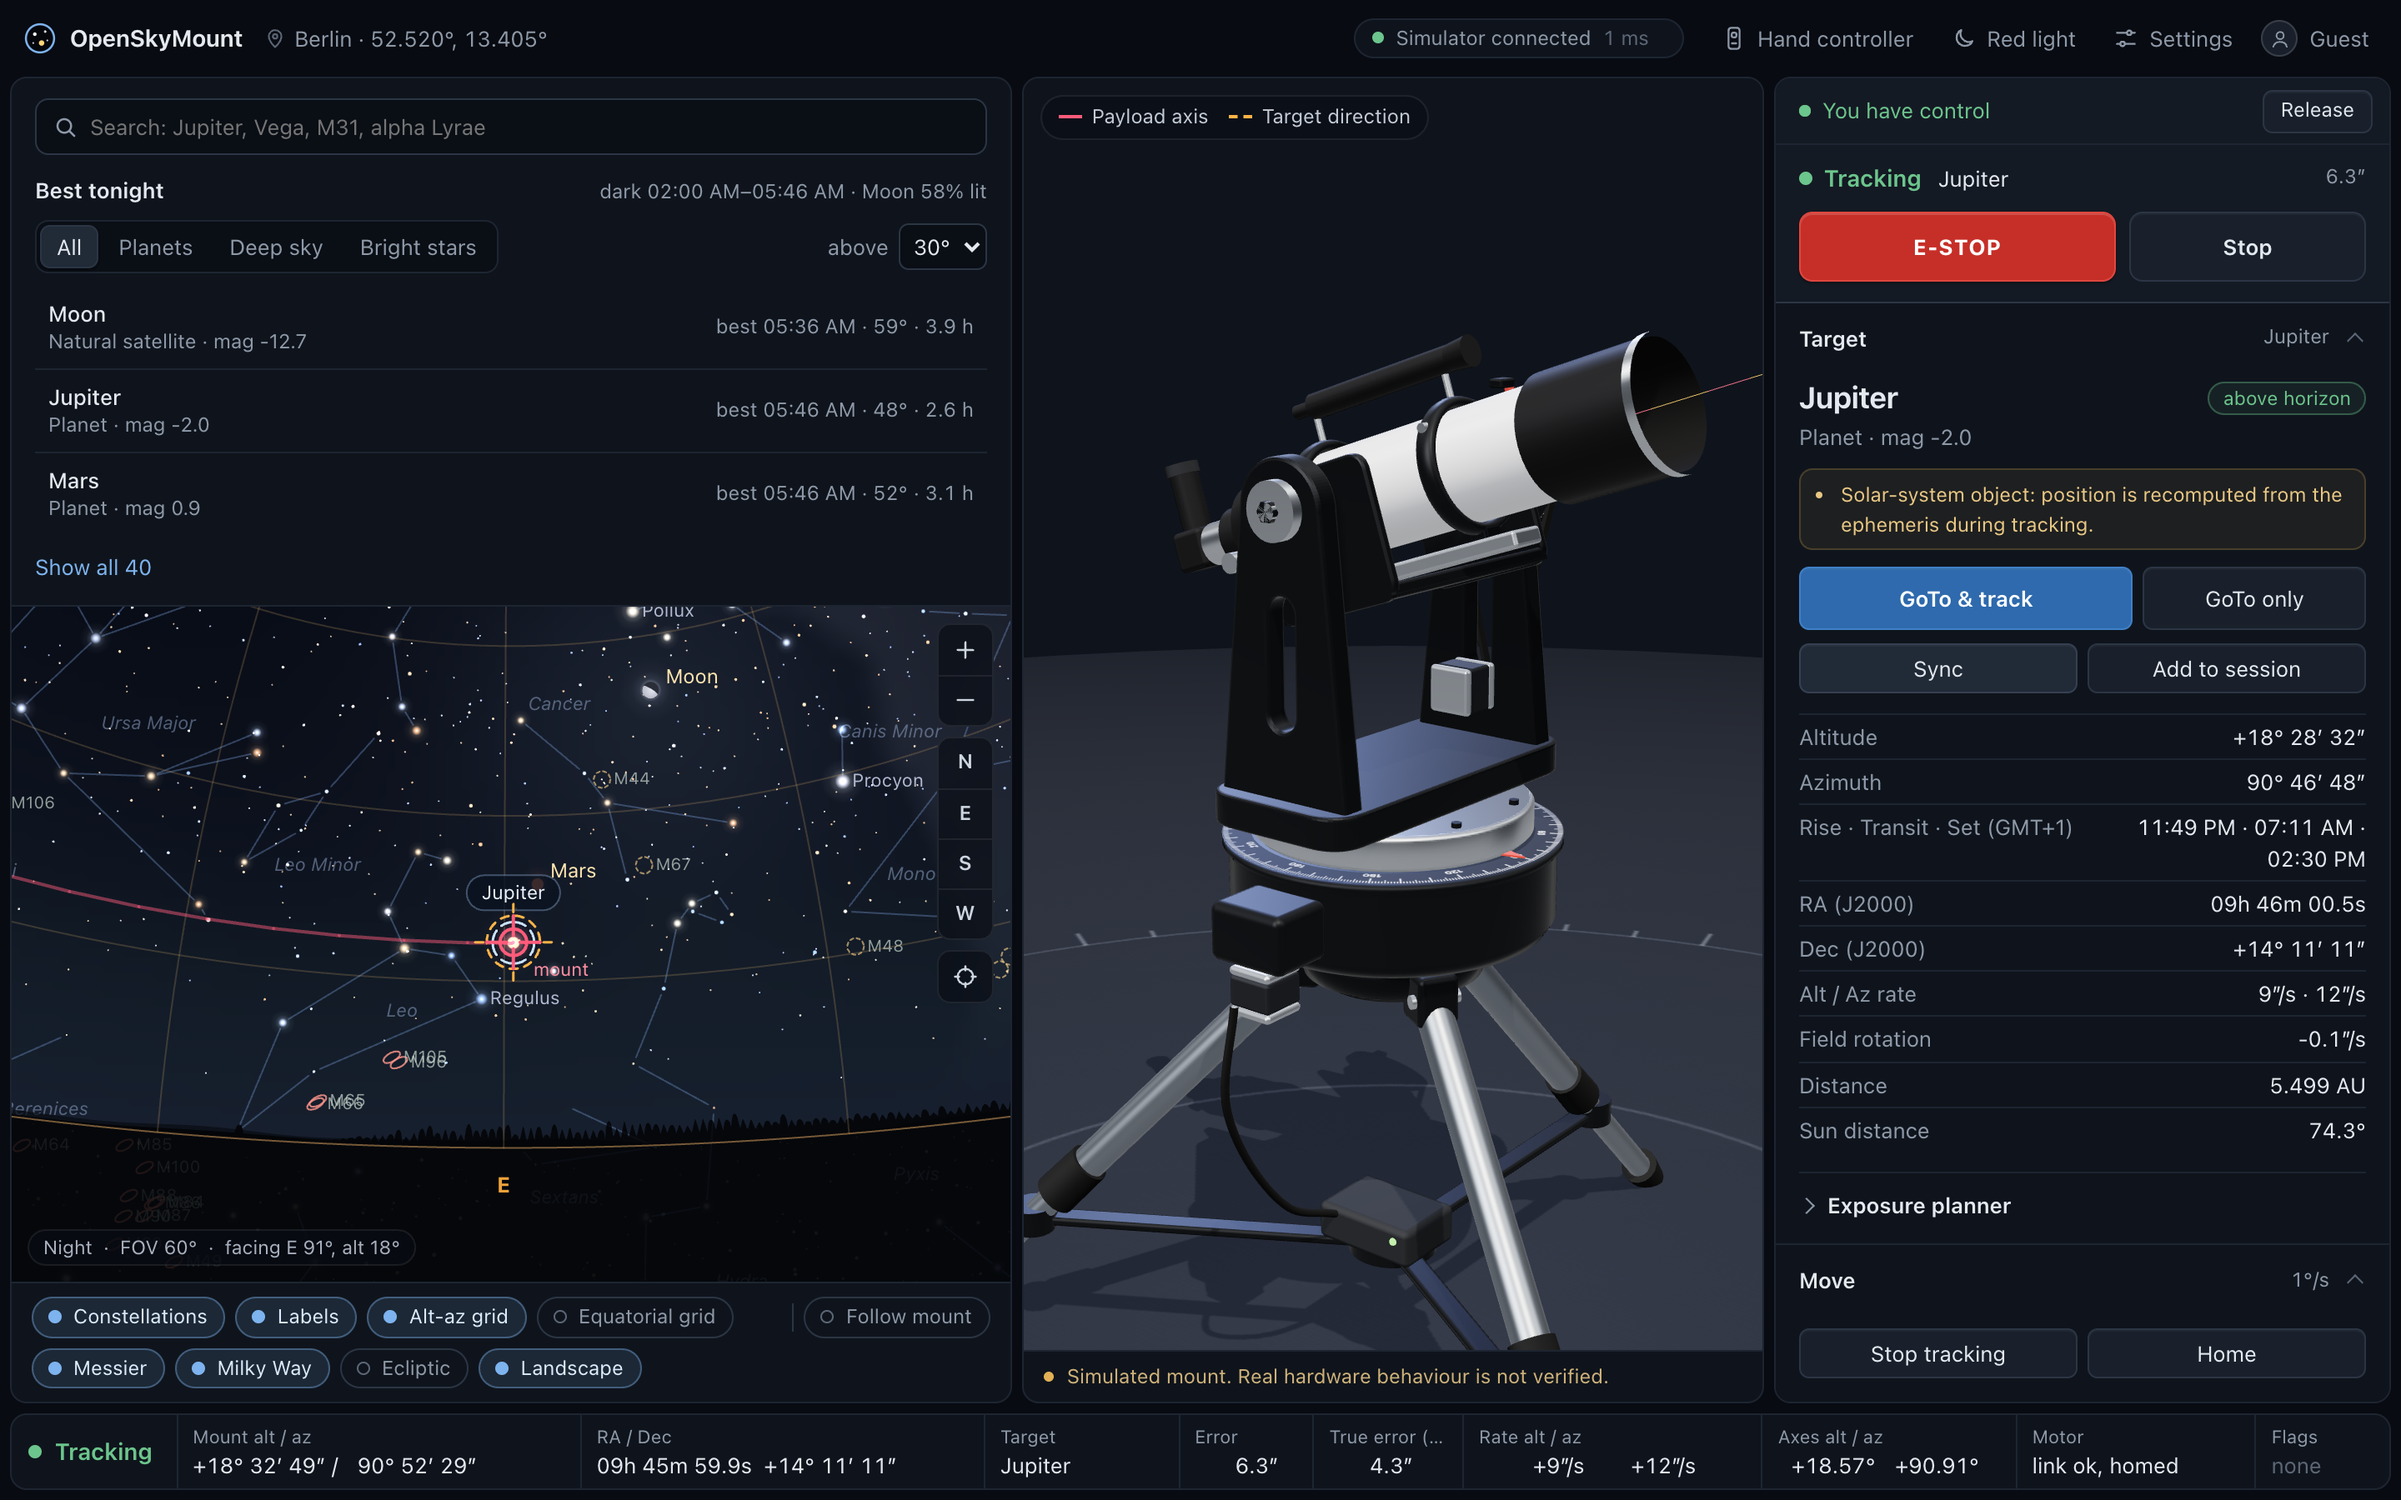
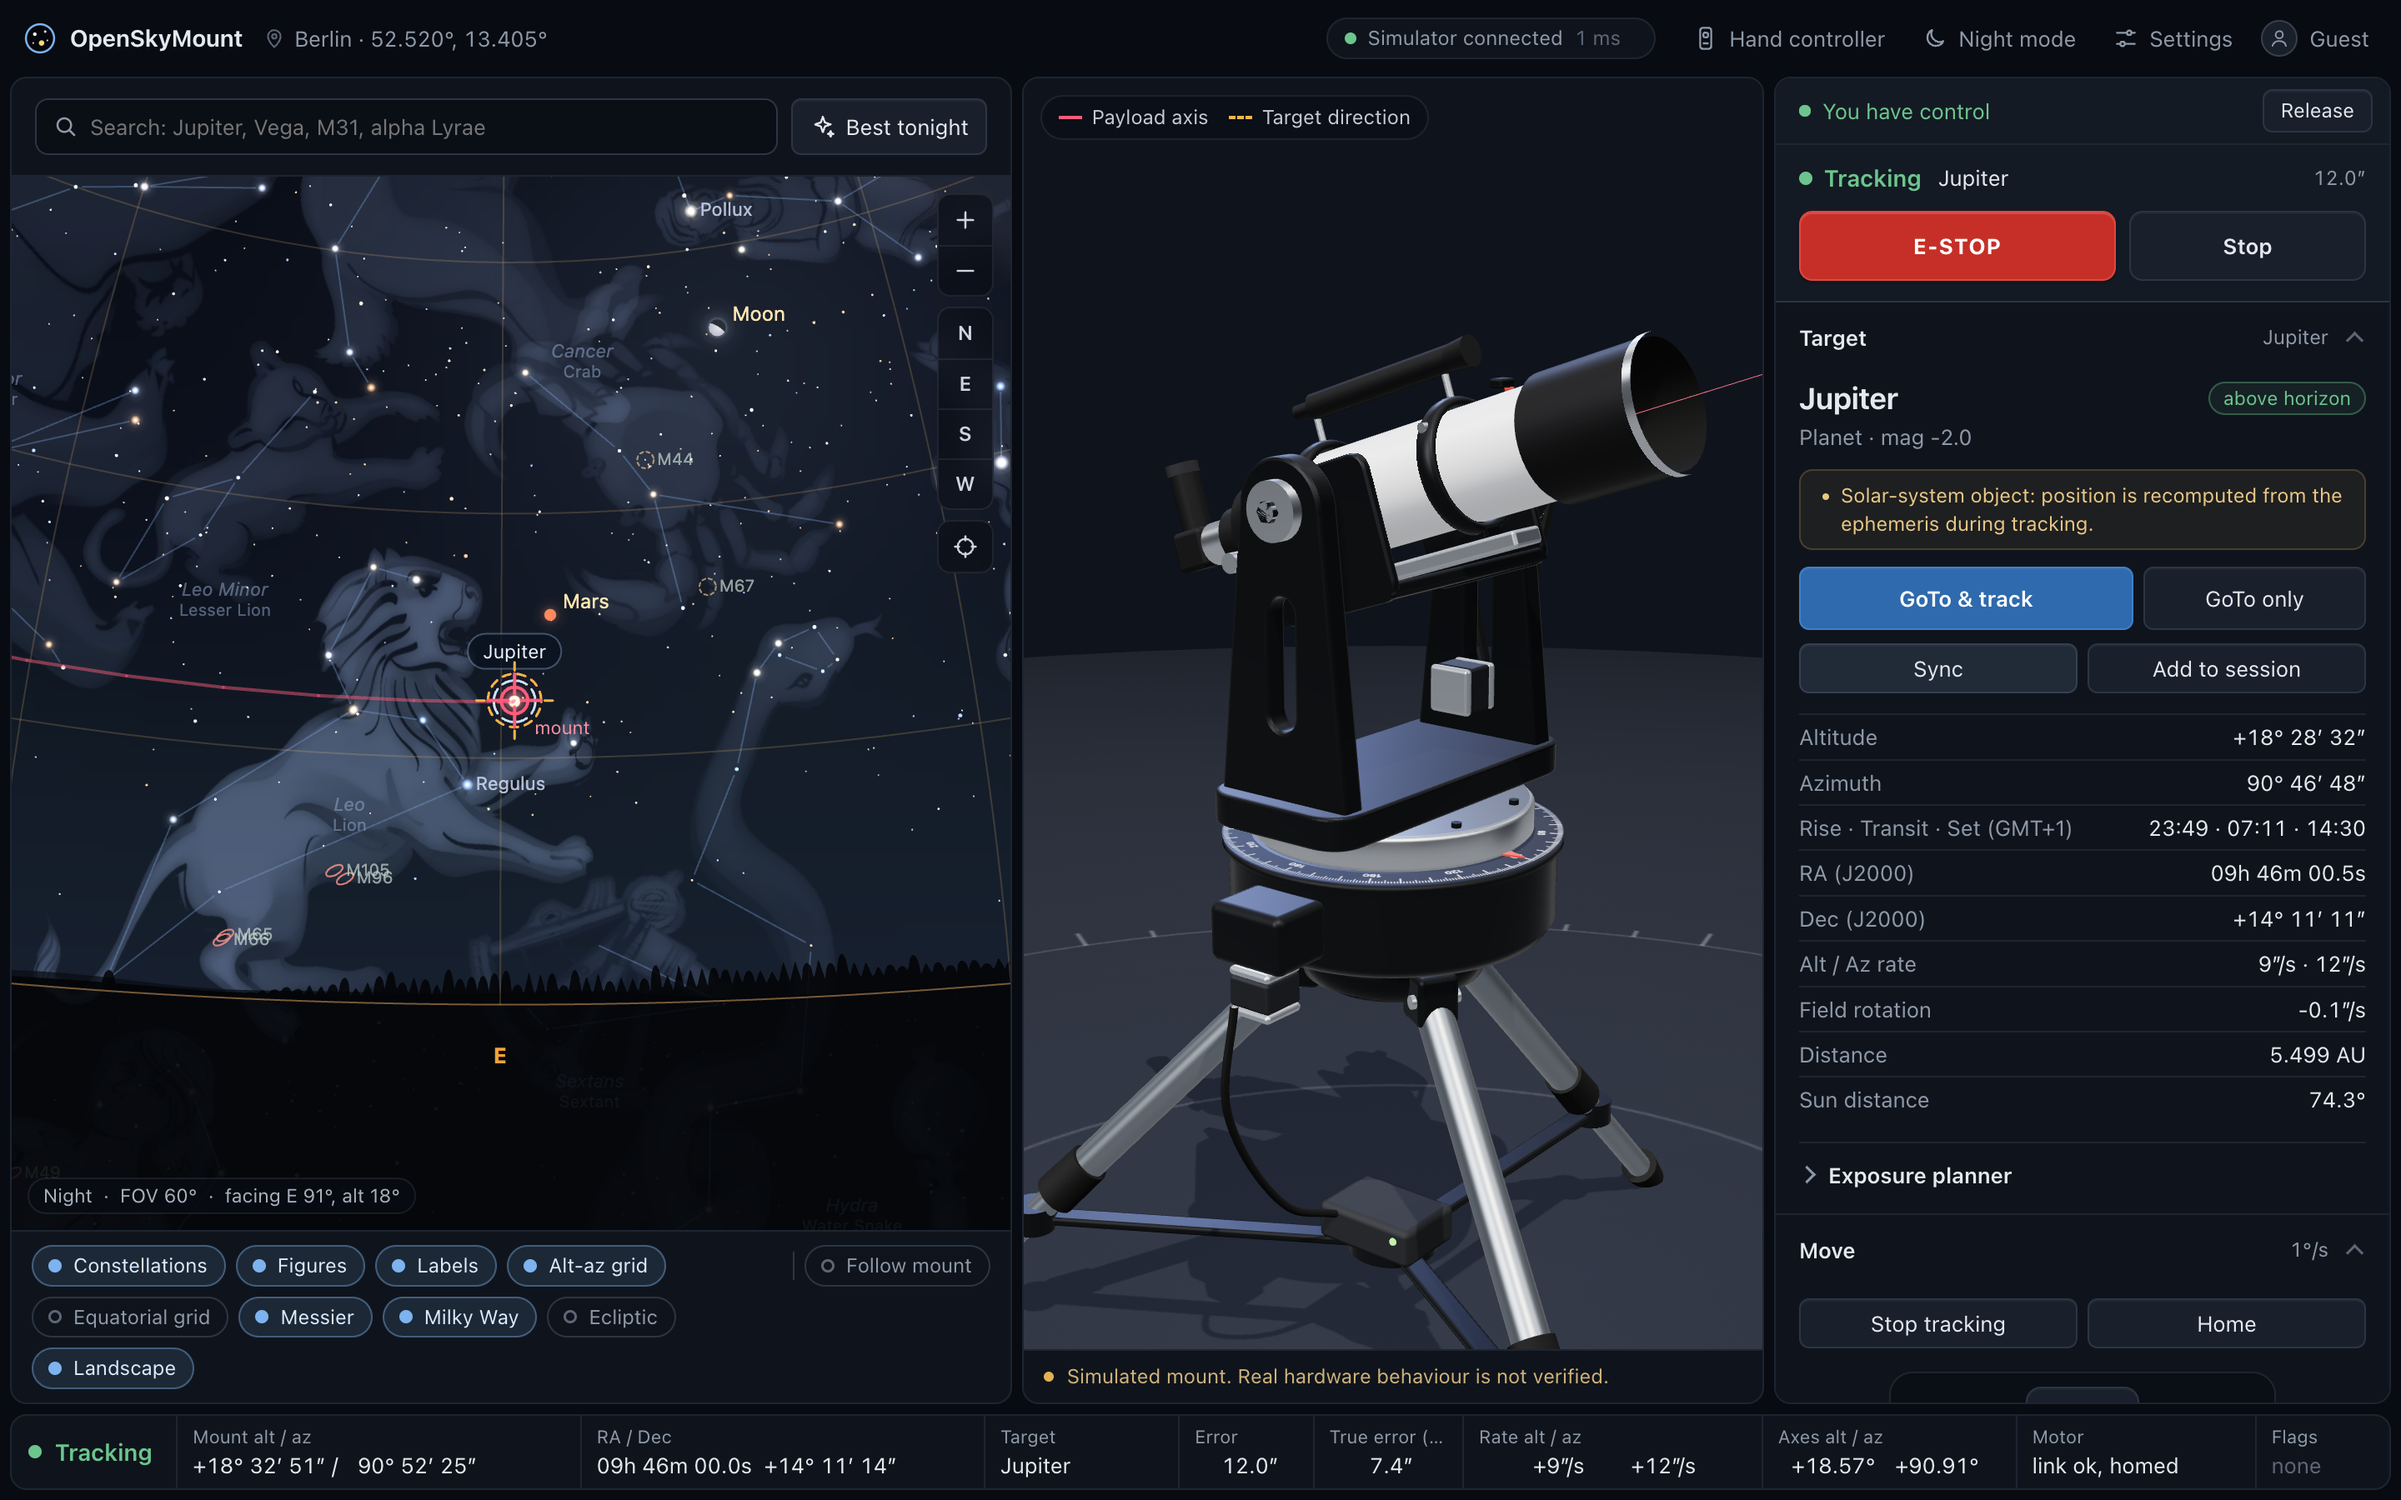
docs: regenerate README screenshots on the session 13 UI
desktop, red-light, mobile-sky and mobile-mount from frontend/e2e/readme-shots.cjs
(telescope payload, Jupiter tracked): English constellation names on the sky map and
the pale E-STOP in red-light mode. PROGRESS notes the refresh.

diff --git a/docs/PROGRESS.md b/docs/PROGRESS.md
@@ -244,4 +244,5 @@ _Last updated: 2026-11-13 (session 13)._ Main branch: `main` (sessions 6–11 me
   it was reverted and is in NEXT_TASKS. My first comparison of suggested against clustered alignment stars in the
   simulator was an artefact of that stall; the noisy model-recovery test is the real evidence. **Not verified**: real
   hardware, a real phone, screen readers, the new panels' look in red-light mode beyond the screenshots.
-
+  README screenshots (`docs/img`) regenerated with `frontend/e2e/readme-shots.cjs` on the session 13 UI (English constellation
+  names on the map, the pale E-STOP in red-light mode).
